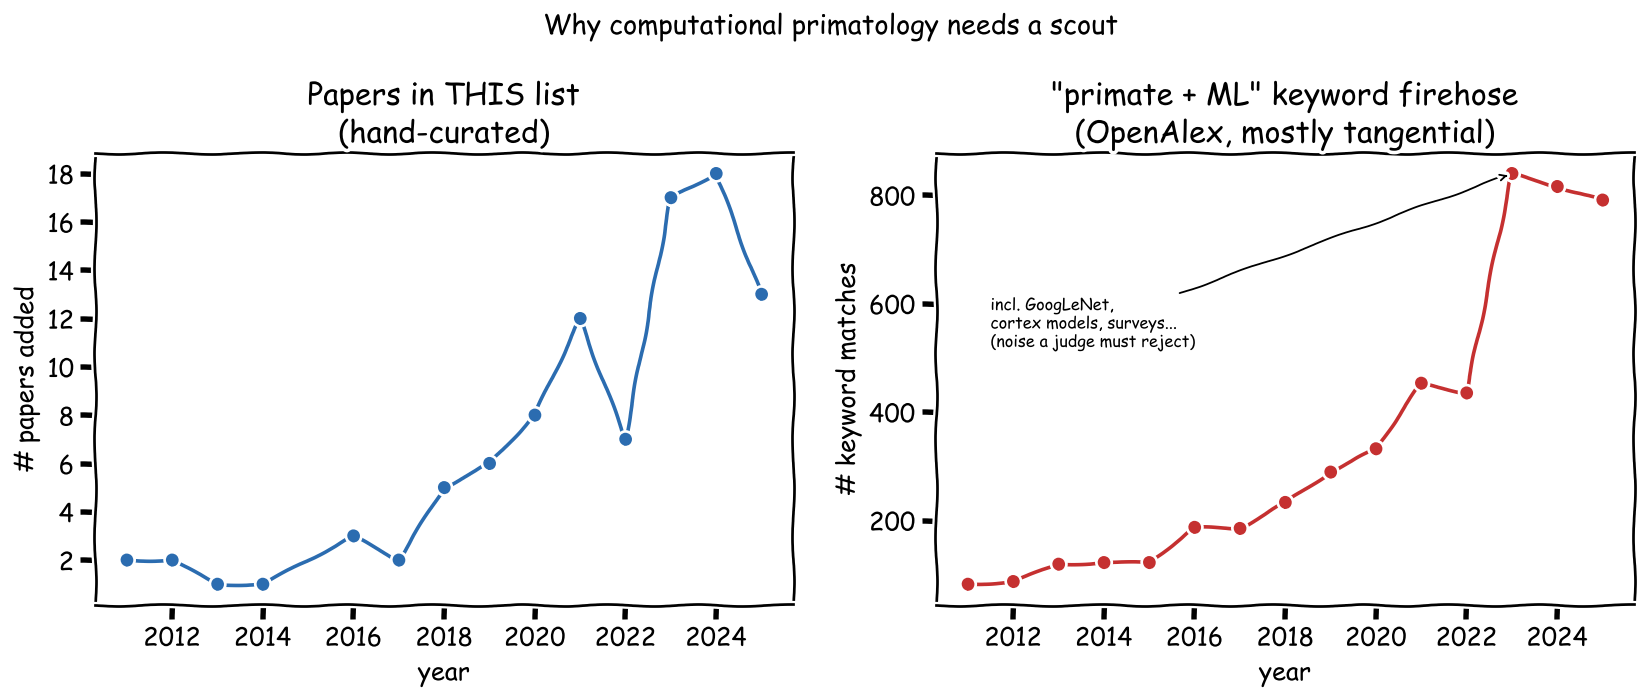
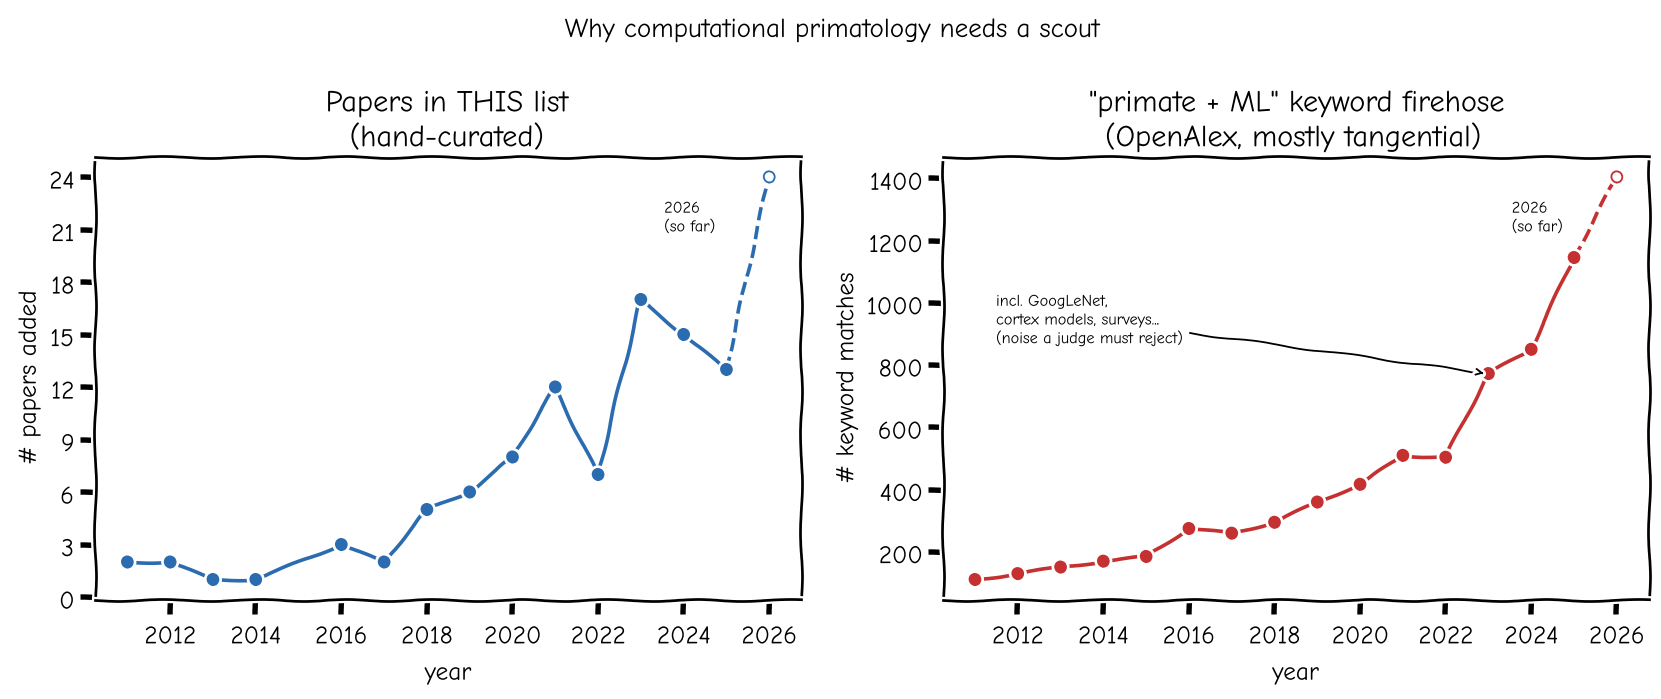
Paper Scout: consolidate the Sep–Nov draft PRs (9 additions); redraw growth plot
Eight weekly scout drafts (#64–#72) were open, overlapping heavily. This
consolidates them into one change.

Added (all 2026):
- Freebie — real-time markerless finger tracking in NHPs for EMG decoding (bioRxiv)
- Tracking Is Not Sensing — thermal-video respiration in head-free marmosets (WACV 2027)
- Lewton et al. — ChimpTZ-26 + NanoChimp zoo detection/tracking/ReID (Royal Society;
  links the figshare supplement until the article DOI is indexed)
- BossouChimpanzee — ~74 h release of the 30-year Bossou video archive (VGG)
- Darmawan et al., Pajiyar et al. — YOLO detection of crop-raiding macaques
- Qitout et al. — self-supervised NHP pose representations (ICPR 2026 workshop)
- Yang et al. — real-time marmoset face detection + ID (eLife reviewed preprint)
- Nolting et al. — linear sex/age concepts inside a gorilla Re-ID ViT

Not added: Siebert et al. 2026 (Animal Cognition) — a facial-expression
perception study; the DL/MaqFACS tracking is incidental.

Badge 102 → 111; index.html regenerated; docs/scout-state.json holds the
union of all branches' judged works (526), last_run 2026-11-16.

Growth plot redrawn (last drawn May 2026): both panels now include the
current year as a hollow, dashed "so far" point instead of stopping at 2025.

diff --git a/index.html b/index.html
@@ -709,10 +709,10 @@
                 <p class="subtitle">A curated list of machine learning research for non-human primatology</p>
 
                 <div class="stat-strip" aria-label="Collection statistics">
-                    <span><strong id="total-papers">102</strong> papers</span>
+                    <span><strong id="total-papers">111</strong> papers</span>
                     <span><strong id="years-span">15</strong> years</span>
-                    <span><strong id="with-code">22</strong> with code</span>
-                    <span><strong id="with-data">24</strong> with data</span>
+                    <span><strong id="with-code">23</strong> with code</span>
+                    <span><strong id="with-data">25</strong> with data</span>
                 </div>
                 <img class="growth-plot" src="https://raw.githubusercontent.com/KordingLab/awesome-computational-primatology/main/docs/assets/paper_growth_xkcd.png" alt="Computational primatology papers per year: this curated list vs. the broader 'primate + ML' literature" style="max-width: 720px; width: 100%; margin: 1.25rem auto 0; display: block;">
             </div>
@@ -793,6 +793,87 @@
     </tr>
   </thead>
   <tbody>
+    <tr>
+      <td>2026</td>
+      <td><a href="https://doi.org/10.64898/2026.11.11.765959">Freebie</a></td>
+      <td>HPE</td>
+      <td>NHP</td>
+      <td>N/A</td>
+      <td>N/A</td>
+      <td>N/A</td>
+    </tr>
+    <tr>
+      <td>2026</td>
+      <td><a href="https://doi.org/10.48550/arXiv.2610.33661">Tracking Is Not Sensing</a></td>
+      <td>O</td>
+      <td>Marmoset</td>
+      <td>N/A</td>
+      <td>N/A</td>
+      <td>N/A</td>
+    </tr>
+    <tr>
+      <td>2026</td>
+      <td><a href="https://doi.org/10.6084/m9.figshare.c.8812269">Lewton et al.</a></td>
+      <td>PD, FR</td>
+      <td>Chimp</td>
+      <td>N/A</td>
+      <td>N/A</td>
+      <td>4,294 images / 383 videos</td>
+    </tr>
+    <tr>
+      <td>2026</td>
+      <td><a href="https://doi.org/10.48550/arXiv.2610.05293">BossouChimpanzee</a></td>
+      <td>BR, FR</td>
+      <td>Chimp</td>
+      <td>N/A</td>
+      <td><a href="https://robots.ox.ac.uk/~vgg/data/BossouChimpanzee/">Yes</a></td>
+      <td>~74 h video (23 individuals)</td>
+    </tr>
+    <tr>
+      <td>2026</td>
+      <td><a href="https://doi.org/10.36456/1hrtgc63">Darmawan et al.</a></td>
+      <td>PD</td>
+      <td>Macaque</td>
+      <td>N/A</td>
+      <td>N/A</td>
+      <td>3,083 images</td>
+    </tr>
+    <tr>
+      <td>2026</td>
+      <td><a href="https://doi.org/10.65091/icicset.v3i1.105">Pajiyar et al.</a></td>
+      <td>PD</td>
+      <td>Macaque</td>
+      <td>N/A</td>
+      <td>N/A</td>
+      <td>10,886 images</td>
+    </tr>
+    <tr>
+      <td>2026</td>
+      <td><a href="https://doi.org/10.1007/978-3-032-39518-4_20">Qitout et al.</a></td>
+      <td>BPE</td>
+      <td>NHP</td>
+      <td>N/A</td>
+      <td>N/A</td>
+      <td>N/A</td>
+    </tr>
+    <tr>
+      <td>2026</td>
+      <td><a href="https://doi.org/10.7554/eLife.110932.2">Yang et al.</a></td>
+      <td>FD, FR</td>
+      <td>Marmoset</td>
+      <td><a href="https://github.com/Jy-Yang-bot/real-time-marmoset-recognition">Code only</a></td>
+      <td>N/A</td>
+      <td>N/A</td>
+    </tr>
+    <tr>
+      <td>2026</td>
+      <td><a href="https://doi.org/10.48550/arXiv.2609.06020">Nolting et al.</a></td>
+      <td>FR</td>
+      <td>Gorilla</td>
+      <td>N/A</td>
+      <td>N/A</td>
+      <td>N/A</td>
+    </tr>
     <tr>
       <td>2026</td>
       <td><a href="https://doi.org/10.48550/arXiv.2607.17399">PanAf-SBR</a></td>
@@ -1740,7 +1821,7 @@
                 <i class="fas fa-robot"></i>
                 <div class="chat-header-text">
                     <h4>Paper Assistant</h4>
-                    <p>Ask questions about 102 papers</p>
+                    <p>Ask questions about 111 papers</p>
                 </div>
             </div>
             <div class="chat-messages" id="chatMessages">

diff --git a/scripts/plot_paper_growth.py b/scripts/plot_paper_growth.py
@@ -15,6 +15,7 @@ Usage:
 
 from __future__ import annotations
 
+import datetime as dt
 import re
 import sys
 import urllib.parse
@@ -27,9 +28,10 @@ from matplotlib.ticker import MaxNLocator
 
 PROJECT_ROOT = Path(__file__).resolve().parent.parent
 README_PATH = PROJECT_ROOT / "README.md"
+CURRENT_YEAR = dt.date.today().year  # plotted as a partial (year-to-date) point
 OUTPUT_PATH = PROJECT_ROOT / "docs" / "assets" / "paper_growth_xkcd.png"
 
-# Cached OpenAlex counts (fetched 2026-05) used if the live request fails.
+# Cached OpenAlex counts (fetched 2026-05; complete years only) used if the live request fails.
 # NOTE: this is a *broad keyword* search ("primate + ML"), not a clean field
 # definition. It over-counts: it pulls in foundational CV (e.g. GoogLeNet),
 # surveys, and primate-visual-cortex-as-ML-model papers. We plot it precisely
@@ -73,10 +75,22 @@ def openalex_counts_by_year() -> dict[int, int]:
 
             groups = json.load(resp)["group_by"]
         counts = {int(g["key"]): g["count"] for g in groups if g["key"].isdigit()}
-        return {y: c for y, c in sorted(counts.items()) if 2011 <= y <= 2025}
+        return {y: c for y, c in sorted(counts.items()) if 2011 <= y <= CURRENT_YEAR}
     except Exception as exc:  # noqa: BLE001 - network is best-effort here
         print(f"OpenAlex fetch failed ({exc}); using cached fallback.", file=sys.stderr)
         return OPENALEX_FALLBACK
+
+
+def _plot_with_partial_year(ax, series: dict[int, int], color: str) -> None:
+    """Plot complete years solid; draw the current (incomplete) year hollow and dashed."""
+    full = {y: c for y, c in series.items() if y < CURRENT_YEAR}
+    ax.plot(list(full), list(full.values()), marker="o", color=color, zorder=3)
+    if CURRENT_YEAR in series and full:
+        last = max(full)
+        ax.plot([last, CURRENT_YEAR], [full[last], series[CURRENT_YEAR]],
+                linestyle="--", marker="o", markevery=[1], markerfacecolor="white", color=color, zorder=2)
+        ax.annotate(f"{CURRENT_YEAR}\n(so far)", xy=(CURRENT_YEAR, series[CURRENT_YEAR]),
+                    xytext=(-58, -30), textcoords="offset points", fontsize=9)
 
 
 def main() -> None:
@@ -89,14 +103,14 @@ def main() -> None:
     with plt.xkcd():
         fig, (ax1, ax2) = plt.subplots(1, 2, figsize=(13, 5.5))
 
-        ax1.plot(list(curated), list(curated.values()), marker="o", color="#2b6cb0")
+        _plot_with_partial_year(ax1, curated, "#2b6cb0")
         ax1.set_title("Papers in THIS list\n(hand-curated)")
         ax1.set_xlabel("year")
         ax1.set_ylabel("# papers added")
         # No such thing as half a paper -> integer ticks only.
         ax1.yaxis.set_major_locator(MaxNLocator(integer=True))
 
-        ax2.plot(list(field), list(field.values()), marker="o", color="#c53030")
+        _plot_with_partial_year(ax2, field, "#c53030")
         ax2.set_title('"primate + ML" keyword firehose\n(OpenAlex, mostly tangential)')
         ax2.set_xlabel("year")
         ax2.set_ylabel("# keyword matches")

diff --git a/README.md b/README.md
@@ -1,7 +1,7 @@
 # [Awesome Computational Primatology](https://kordinglab.com/awesome-computational-primatology/)
 
 [![Awesome](https://awesome.re/badge.svg)](https://awesome.re)
-[![Papers](https://img.shields.io/badge/Papers-102-blue)](https://github.com/KordingLab/awesome-computational-primatology#projects)
+[![Papers](https://img.shields.io/badge/Papers-111-blue)](https://github.com/KordingLab/awesome-computational-primatology#projects)
 [![PRs Welcome](https://img.shields.io/badge/PRs-welcome-brightgreen.svg)](https://github.com/KordingLab/awesome-computational-primatology/blob/main/CONTRIBUTING.md)
 [![Last Updated](https://img.shields.io/github/last-commit/KordingLab/awesome-computational-primatology?label=last%20updated)](https://github.com/KordingLab/awesome-computational-primatology/commits/main)
 
@@ -67,6 +67,15 @@ By sharing your datasets and models, you contribute to advancing primatology and
 ### Projects
 | Year | Paper | Topic | Animal | Model? | Data? | Image/Video Count |
 |------|-----|-------|---------|------------|---------------|-------------|
+| 2026 | [Freebie](https://doi.org/10.64898/2026.11.11.765959) | HPE | NHP | N/A | N/A | N/A |
+| 2026 | [Tracking Is Not Sensing](https://doi.org/10.48550/arXiv.2610.33661) | O | Marmoset | N/A | N/A | N/A |
+| 2026 | [Lewton et al.](https://doi.org/10.6084/m9.figshare.c.8812269) | PD, FR | Chimp | N/A | N/A | 4,294 images / 383 videos |
+| 2026 | [BossouChimpanzee](https://doi.org/10.48550/arXiv.2610.05293) | BR, FR | Chimp | N/A | [Yes](https://robots.ox.ac.uk/~vgg/data/BossouChimpanzee/) | ~74 h video (23 individuals) |
+| 2026 | [Darmawan et al.](https://doi.org/10.36456/1hrtgc63) | PD | Macaque | N/A | N/A | 3,083 images |
+| 2026 | [Pajiyar et al.](https://doi.org/10.65091/icicset.v3i1.105) | PD | Macaque | N/A | N/A | 10,886 images |
+| 2026 | [Qitout et al.](https://doi.org/10.1007/978-3-032-39518-4_20) | BPE | NHP | N/A | N/A | N/A |
+| 2026 | [Yang et al.](https://doi.org/10.7554/eLife.110932.2) | FD, FR | Marmoset | [Code only](https://github.com/Jy-Yang-bot/real-time-marmoset-recognition) | N/A | N/A |
+| 2026 | [Nolting et al.](https://doi.org/10.48550/arXiv.2609.06020) | FR | Gorilla | N/A | N/A | N/A |
 | 2026 | [PanAf-SBR](https://doi.org/10.48550/arXiv.2607.17399) | PD, BR | Apes | N/A | N/A | 100 videos / 36,063 frames |
 | 2026 | [PanLep300 (Murray et al.)](https://doi.org/10.48550/arXiv.2607.17395) | PD, O | Chimp | N/A | N/A | 303 videos / 125,670 crops |
 | 2026 | [MacAction](https://doi.org/10.1371/journal.pbio.3003880) | AM, 3D BPE | Macaque | [Yes](https://github.com/martinivis/MacAction) | N/A | N/A |
